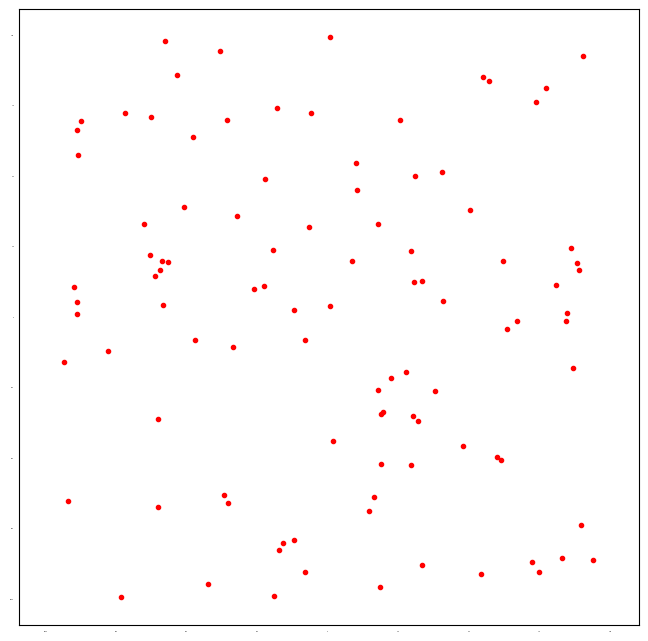
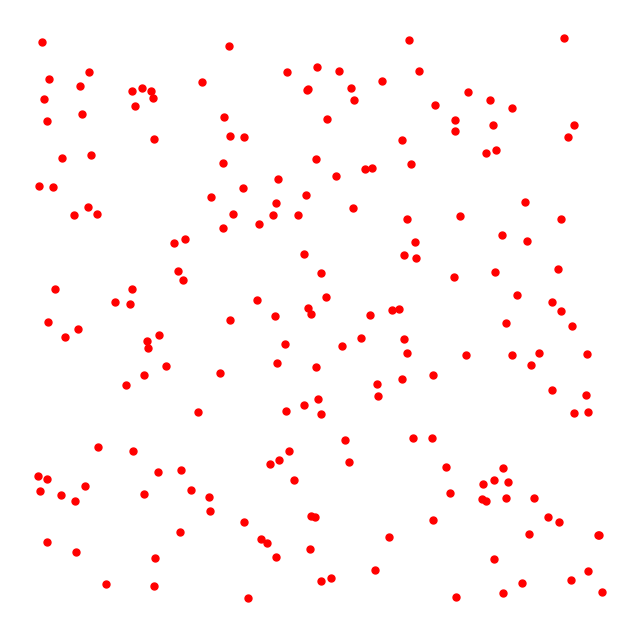
feat: python add call api upload map image

diff --git a/GasDetectionRobot-Python/network_utils.py b/GasDetectionRobot-Python/network_utils.py
@@ -1,9 +1,10 @@
 import requests
 import json
 
-DOMAIN = "https://gas-detekt-system.azurewebsites.net/"
+DOMAIN = "https://gas-detekt-system.azurewebsites.net"
 FILE_PATH = "./config.json"
 NUM_RETRIES = 3
+IMAGE_PATH = "./map2d-{deviceId}.png"
 
 class NetworkUtils(object):
 
@@ -81,7 +82,28 @@ class NetworkUtils(object):
                 pass
 
         return False
+    
+    def uploadMapImage(self):
+        domain_tail = "/uploadMapImage"
+        link_api = self.domain + domain_tail
+
+        # headers = {'content-type': 'application/json'}
+        files = {'image': open(IMAGE_PATH.format(deviceId=self.deviceId), 'rb')}
+        data = {
+            "device_serial_number": self.deviceId,
+        }
+            
+        try:
+            response = requests.post(link_api, files=files, data=data)
+
+            if response.status_code == 200:
+                print('Server response:', response.text)
+            else :
+                print('Server error with code', response.status_code)
+        except requests.exceptions.ConnectionError:
+            print('Try connect server again ...')
+            pass
 
 if __name__ == '__main__':
     network_utils = NetworkUtils()
-    print(network_utils.pingDisconnectToServer())
+    network_utils.uploadMapImage()

diff --git a/GasDetectionRobot-Python/draw_map_helper.py b/GasDetectionRobot-Python/draw_map_helper.py
@@ -24,9 +24,9 @@ class DrawMapHelper:
     def drawImg(self):
         points = self.listPoint
         plt.rc('figure', figsize=(8, 8))
-        plt.axis('equal')
+        plt.axis('off')
         plt.tick_params(axis='both', labelsize=0, length = 0)
-        plt.plot(points[:,0], points[:,1], '.',color='r')
+        plt.plot(points[:,0], points[:,1], '.',color='r', markersize=10)
         plt.savefig(IMAGE_PATH.format(deviceId=self.deviceId), bbox_inches="tight")
         # plt.show()
 
@@ -35,7 +35,7 @@ class DrawMapHelper:
 
 
 if __name__ == "__main__":
-    points = np.random.uniform(-100, 100, size=(100,2))
+    points = np.random.uniform(-100, 100, size=(200,2))
     drawer = DrawMapHelper(points)
     drawer.drawImg()
     # print(points)
